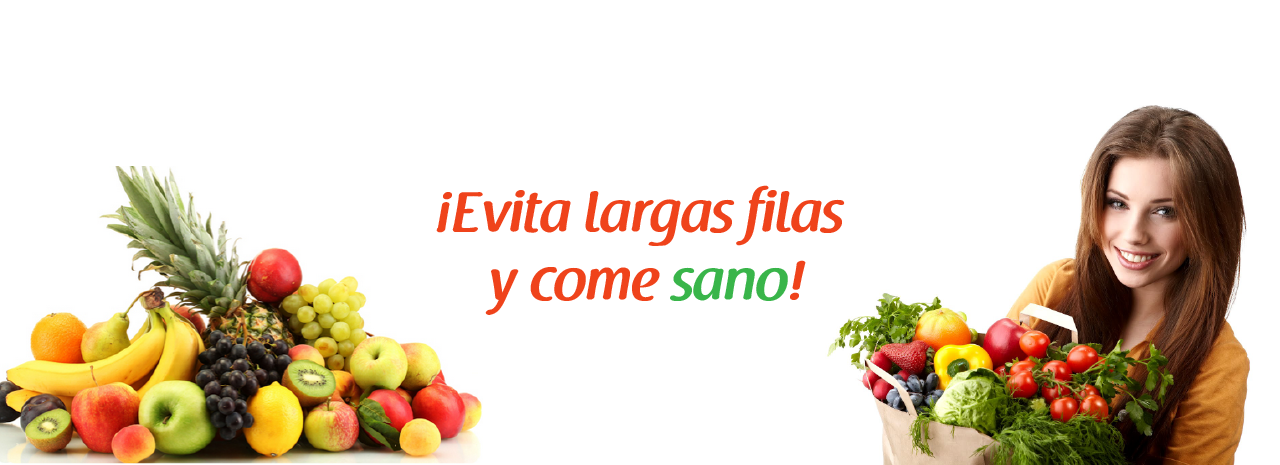
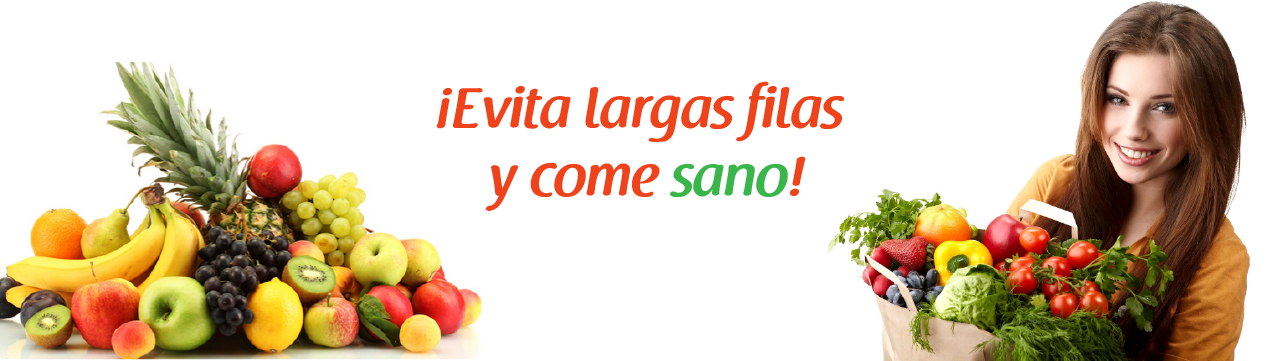
Marisco que me pasa sjajaj

diff --git a/css/style.css b/css/style.css
@@ -12,12 +12,21 @@ body{
   padding-left: 0px;
 }
 
+#header .row{
+  margin-bottom: -6px;
+}
+
 .tipa{
   margin-top: -20%;
 }
 
 #aweber {
-  background-image: url(../images/fondo header.png);
+  background-image: url(../images/fondo.png);
+
+}
+
+.awebo{
+  background-color: red;
 }
 
 /*Eduardo css*/
@@ -63,3 +72,47 @@ body{
 }
 
 @media (max-width: 300px) {}
+
+
+  #af-form-511189785 .af-body .af-textWrap{width:98%;display:block;float:none;}
+  #af-form-511189785 .af-body a{color:#CCCCCC;text-decoration:underline;font-style:normal;font-weight:normal;}
+  #af-form-511189785 .af-body input.text, #af-form-511189785 .af-body textarea{background-color:#FFFFFF;border-color:#D9D9D9;border-width:1px;border-style:solid;color:#000000;text-decoration:none;font-style:normal;font-weight:normal;font-size:24px;font-family:Trebuchet MS, sans-serif;}
+  #af-form-511189785 .af-body input.text:focus, #af-form-511189785 .af-body textarea:focus{background-color:#FFFAD6;border-color:#030303;border-width:1px;border-style:solid;}
+  #af-form-511189785 .af-body label.previewLabel{display:block;float:none;text-align:left;width:auto;color:#FFFFFF;text-decoration:none;font-style:normal;font-weight:normal;font-size:24px;font-family:Helvetica, sans-serif;}
+  #af-form-511189785 .af-body{padding-bottom:15px;padding-top:15px;background-repeat:no-repeat;background-position:inherit;background-image:none;color:#CCCCCC;font-size:11px;font-family:Verdana, sans-serif;}
+  #af-form-511189785 .af-header{padding-bottom:9px;padding-top:9px;padding-right:10px;padding-left:10px;background-color:#transparent;border-width:1px;border-bottom-style:none;border-left-style:none;border-right-style:none;border-top-style:none;color:#CCCCCC;font-size:16px;font-family:Verdana, sans-serif;}
+  #af-form-511189785 .af-quirksMode .bodyText{padding-top:2px;padding-bottom:2px;}
+  #af-form-511189785 .af-quirksMode{padding-right:16px;padding-left:16px;}
+  #af-form-511189785 .af-standards .af-element{padding-right:16px;padding-left:16px;}
+  #af-form-511189785 .bodyText p{margin:1em 0;}
+  #af-form-511189785 .buttonContainer input.submit{background-image:url("https://forms.aweber.com/images/auto/gradient/button/07c.png");background-position:top left;background-repeat:repeat-x;background-color:#0057ac;border:1px solid #0057ac;color:#FFFFFF;text-decoration:none;font-style:normal;font-weight:normal;font-size:24px;font-family:Helvetica, sans-serif;}
+  #af-form-511189785 .buttonContainer input.submit{width:auto;}
+  #af-form-511189785 .buttonContainer{text-align:center;}
+  #af-form-511189785 body,#af-form-511189785 dl,#af-form-511189785 dt,#af-form-511189785 dd,#af-form-511189785 h1,#af-form-511189785 h2,#af-form-511189785 h3,#af-form-511189785 h4,#af-form-511189785 h5,#af-form-511189785 h6,#af-form-511189785 pre,#af-form-511189785 code,#af-form-511189785 fieldset,#af-form-511189785 legend,#af-form-511189785 blockquote,#af-form-511189785 th,#af-form-511189785 td{float:none;color:inherit;position:static;margin:0;padding:0;}
+  #af-form-511189785 button,#af-form-511189785 input,#af-form-511189785 submit,#af-form-511189785 textarea,#af-form-511189785 select,#af-form-511189785 label,#af-form-511189785 optgroup,#af-form-511189785 option{float:none;position:static;margin:0;}
+  #af-form-511189785 div{margin:0;}
+  #af-form-511189785 fieldset{border:0;}
+  #af-form-511189785 form,#af-form-511189785 textarea,.af-form-wrapper,.af-form-close-button,#af-form-511189785 img{float:none;color:inherit;position:static;background-color:none;border:none;margin:0;padding:0;}
+  #af-form-511189785 input,#af-form-511189785 button,#af-form-511189785 textarea,#af-form-511189785 select{font-size:100%;}
+  #af-form-511189785 p{color:inherit;}
+  #af-form-511189785 select,#af-form-511189785 label,#af-form-511189785 optgroup,#af-form-511189785 option{padding:0;}
+  #af-form-511189785 table{border-collapse:collapse;border-spacing:0;}
+  #af-form-511189785 ul,#af-form-511189785 ol{list-style-image:none;list-style-position:outside;list-style-type:disc;padding-left:40px;}
+  #af-form-511189785,#af-form-511189785 .quirksMode{width:100%;max-width:382px;}
+  #af-form-511189785.af-quirksMode{overflow-x:hidden;}
+  #af-form-511189785{background-color:transparent;border-color:#CFCFCF;border-width:1px;border-style:none;}
+  #af-form-511189785{display:block;}
+  #af-form-511189785{overflow:hidden;}
+  .af-body .af-textWrap{text-align:left;}
+  .af-body input.image{border:none!important;}
+  .af-body input.submit,.af-body input.image,.af-form .af-element input.button{float:none!important;}
+  .af-body input.text{width:100%;float:none;padding:2px!important;}
+  .af-body.af-standards input.submit{padding:4px 12px;}
+  .af-clear{clear:both;}
+  .af-element label{text-align:left;display:block;float:left;}
+  .af-element{padding-bottom:5px;padding-top:5px;}
+  .af-form-wrapper{text-indent:0;}
+  .af-form{text-align:left;margin:auto;}
+  .af-header{margin-bottom:0;margin-top:0;padding:10px;}
+  .af-quirksMode .af-element{padding-left:0!important;padding-right:0!important;}
+  .lbl-right .af-element label{text-align:right;}

diff --git a/index.html b/index.html
@@ -19,6 +19,10 @@
     </div>
 
     <div class="row">
+      <img src="images/header.png" width="100%" alt="">
+    </div>
+
+    <!-- <div class="row soli">
       <div class="col xl4 frutas">
         <img src="images/frutas header.png" width="90%" alt="">
       </div>
@@ -27,19 +31,69 @@
       </div>
       <div class="col xl4">
         <img src="images/tipa header.png" width="90%" class="tipa" alt="">
-      </div>
+      </div> -->
 
     </div>
   </section>
 
 
   <section id="aweber">
+    <div class="bg">
     <div class="row">
-      
+
+      <div class="col xl3 right awebo">
+
+        <form method="post" class="af-form-wrapper" accept-charset="UTF-8" action="https://www.aweber.com/scripts/addlead.pl">
+          <div style="display: none;">
+            <input type="hidden" name="meta_web_form_id" value="511189785" />
+            <input type="hidden" name="meta_split_id" value="" />
+            <input type="hidden" name="listname" value="awlist4835507" />
+            <input type="hidden" name="redirect" value="http://grupo-alternativa.com/servicios-para-empresas/gracias.html" id="redirect_be44b6e48da1154ec9e139eb440a5dbf" />
+
+            <input type="hidden" name="meta_adtracking" value="Solicitar_Ascesor" />
+            <input type="hidden" name="meta_message" value="1" />
+            <input type="hidden" name="meta_required" value="name,email" />
+
+            <input type="hidden" name="meta_tooltip" value="" />
+          </div>
+          <div id="af-form-511189785" class="af-form">
+            <div id="af-header-511189785" class="af-header">
+              <div class="bodyText">
+                <p style="text-align: center;"><span style="font-size: 36px; color: #ffffff;">Solicita hablar con nuestro asesor</span></p>
+              </div>
+            </div>
+            <div id="af-body-511189785" class="af-body af-standards">
+              <div class="af-element">
+                <label class="previewLabel" for="awf_field-93665975">Nombre: </label>
+                <div class="af-textWrap">
+                  <input id="awf_field-93665975" type="text" name="name" class="text" value="" onfocus=" if (this.value == '') { this.value = ''; }" onblur="if (this.value == '') { this.value='';} " tabindex="500" />
+                </div>
+                <div class="af-clear"></div>
+              </div>
+              <div class="af-element">
+                <label class="previewLabel" for="awf_field-93665976">Email: </label>
+                <div class="af-textWrap"><input class="text" id="awf_field-93665976" type="text" name="email" value="" tabindex="501" onfocus=" if (this.value == '') { this.value = ''; }" onblur="if (this.value == '') { this.value='';} " />
+                </div>
+                <div class="af-clear"></div>
+              </div>
+              <div class="af-element">
+                <label class="previewLabel" for="awf_field-93665977">Tenefono:</label>
+                <div class="af-textWrap"><input type="text" id="awf_field-93665977" class="text" name="custom Tenefono" value="" onfocus=" if (this.value == '') { this.value = ''; }" onblur="if (this.value == '') { this.value='';} " tabindex="502" /></div>
+                <div class="af-clear"></div>
+              </div>
+              <div class="af-element buttonContainer">
+                <input name="submit" class="btn waves-effect waves-light boton" type="submit" value="Solicitar" tabindex="503" />
+                <br>
+                <div class="af-clear"></div>
+              </div>
+            </div>
+          </div>
+          <div style="display: none;"><img src="https://forms.aweber.com/form/displays.htm?id=rIyMjByc7Bys" alt="" /></div>
+        </form>
+
+      </div>
     </div>
-
-
-
+  </div>
   </section>
 
 
